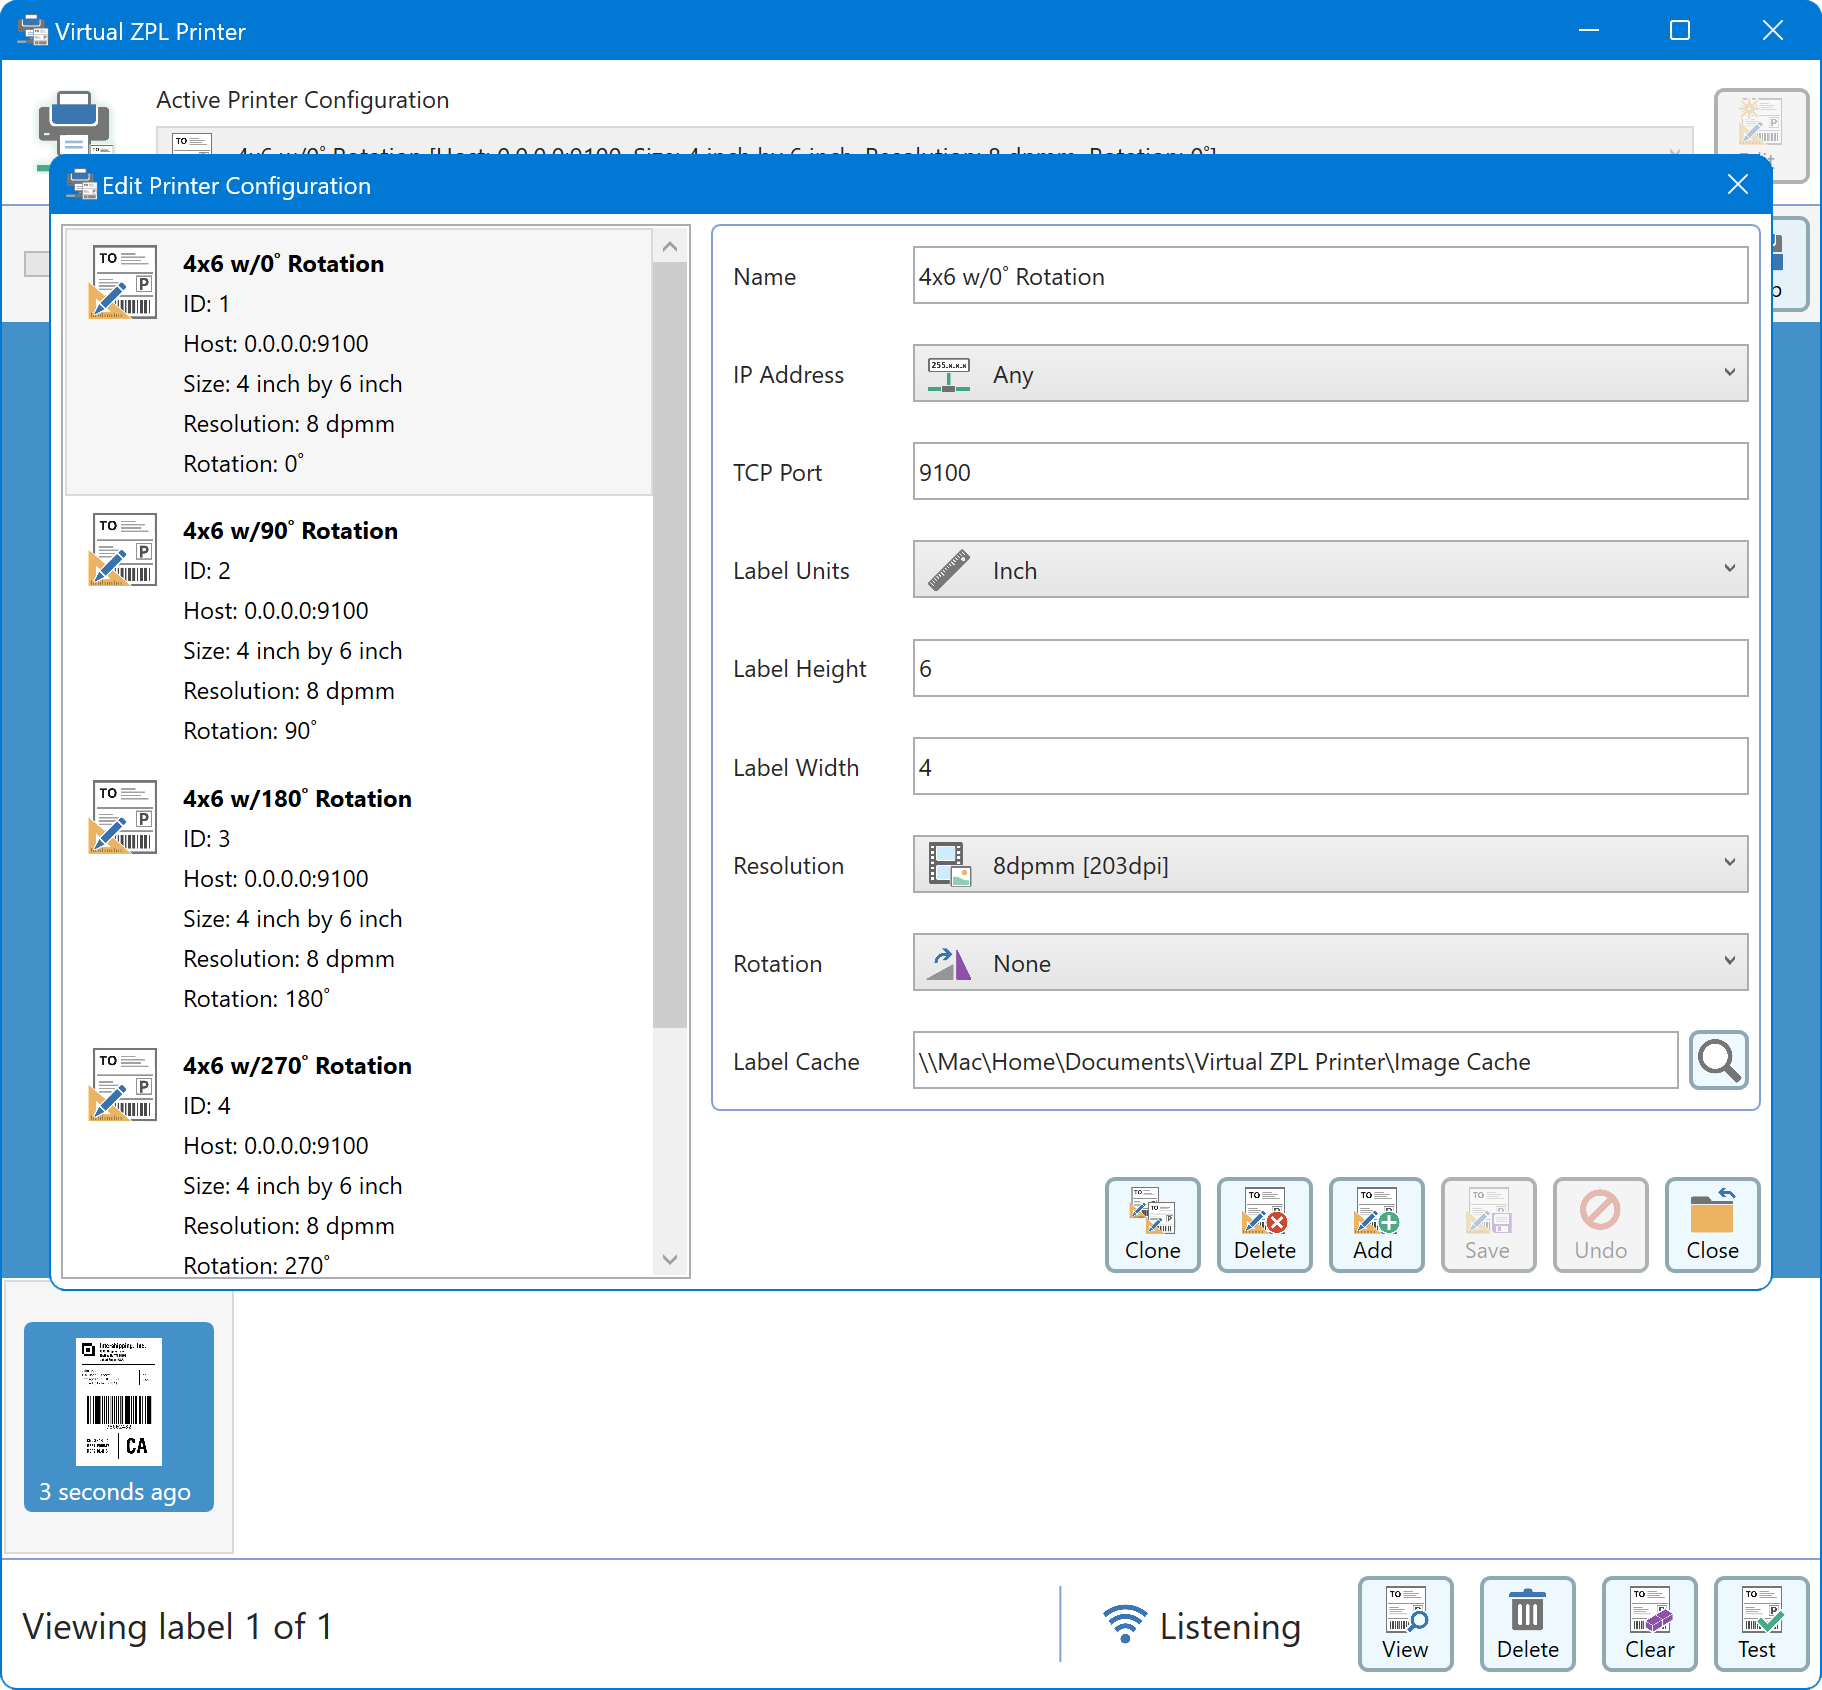
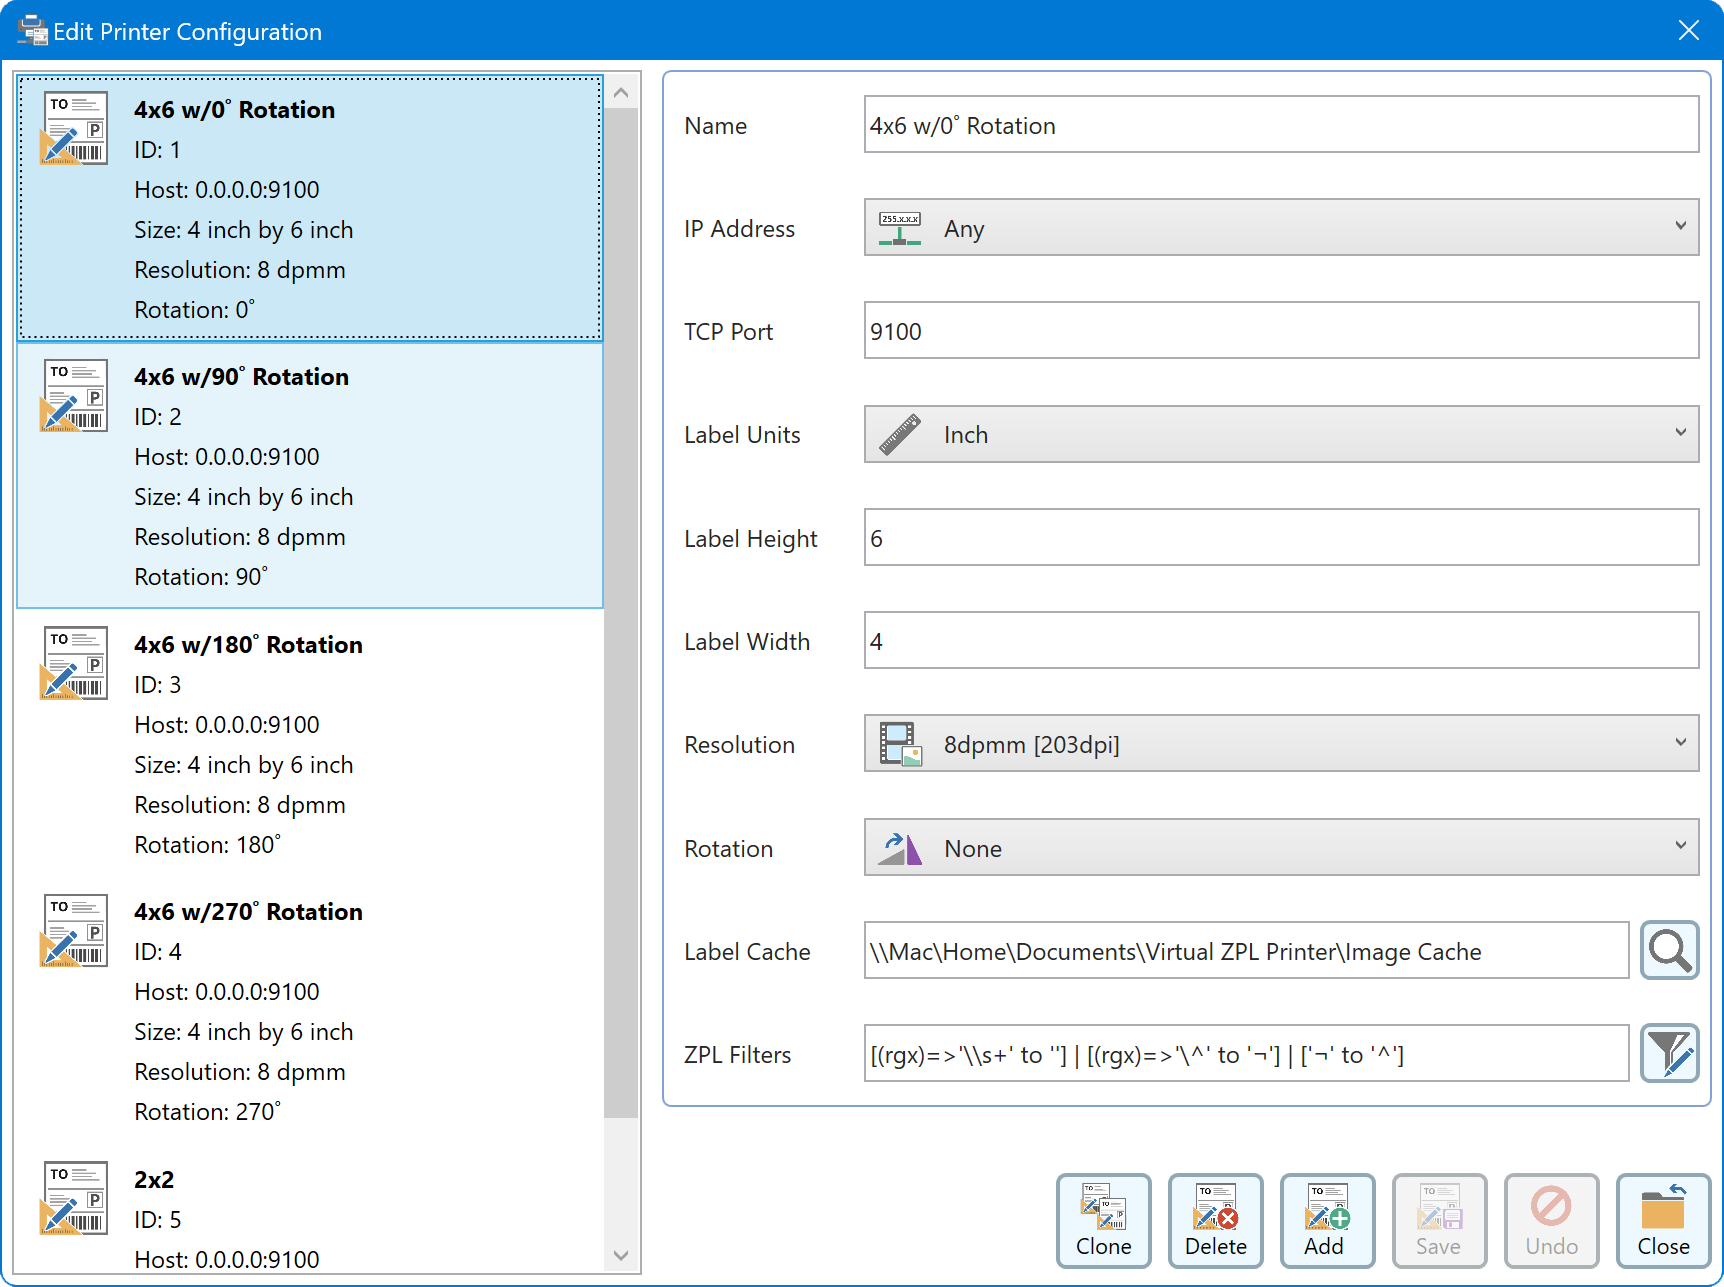
Updated images

diff --git a/README.md b/README.md
@@ -19,6 +19,8 @@ Now requires **.NET 7.0**. Download Setup.exe and the MSI if you need to have th
 
 ![](https://github.com/porrey/Virtual-ZPL-Printer/raw/ZPL-Filter/Images/VirtualZplPrinter-04.png)
 
+![](https://github.com/porrey/Virtual-ZPL-Printer/raw/ZPL-Filter/Images/VirtualZplPrinter-05.png)
+
 *Screen shots taken in Windows 11*
 
 ##### History
